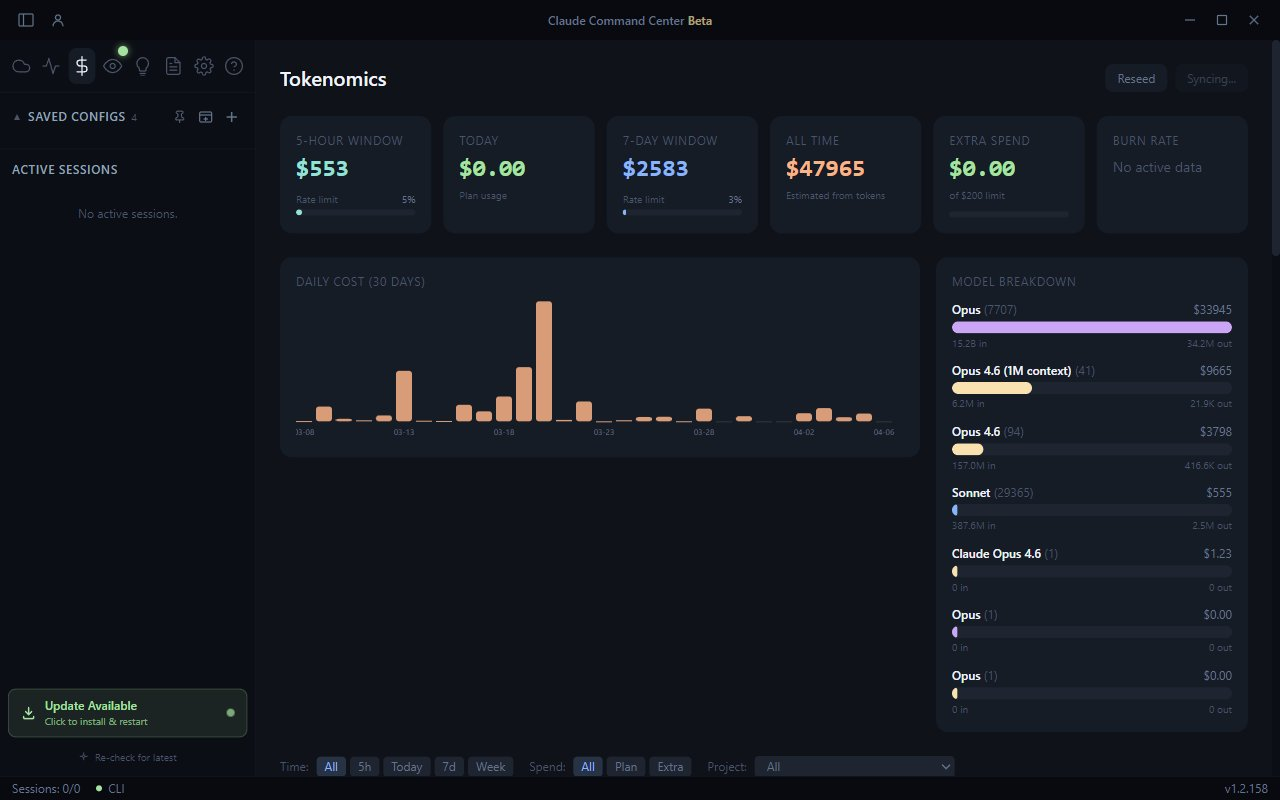
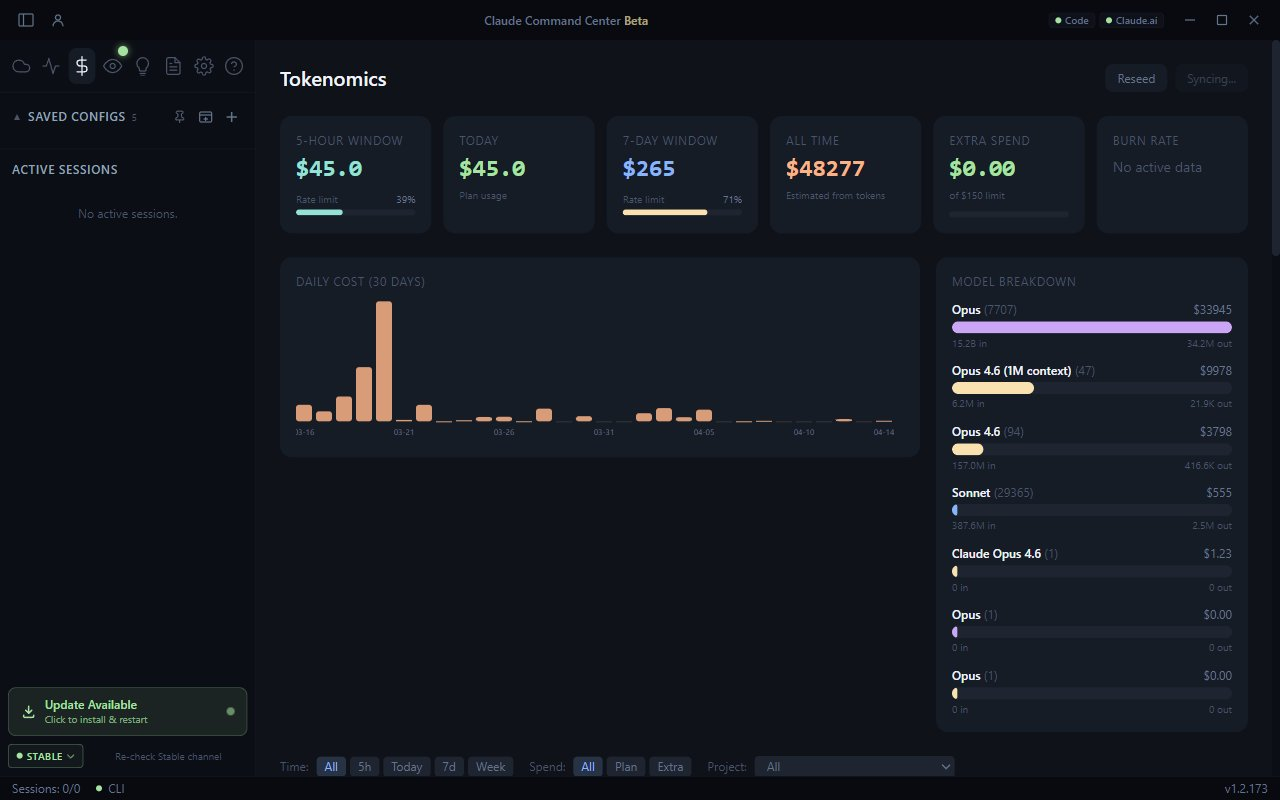
Sanitize screenshots: use demo data with no personal paths
- Screenshot capture script now uses generic paths (C:\Users\developer)
  instead of real OS username
- Seeds fake tokenomics data so real project names don't appear
- Adds command sections with targets to sample data
- Auto-copies training screenshots to docs/screenshots/
- All 7 flagged Windows screenshots retaken with clean data

diff --git a/scripts/capture-training-screenshots.ts b/scripts/capture-training-screenshots.ts
@@ -56,21 +56,30 @@ function getConfigDir(): string {
 
 // ── Sample data ──
 
+// Use sanitized paths — never expose real OS username in screenshots
 const homePath = process.platform === 'win32'
-  ? `C:\\Users\\${os.userInfo().username}\\Projects`
-  : `${os.homedir()}/Projects`
+  ? 'C:\\Users\\developer\\Projects'
+  : '/Users/developer/Projects'
 
 const SAMPLE_CONFIGS = [
   { id: 'demo-webapp', label: 'Web App', workingDirectory: path.join(homePath, 'web-app'), model: '', color: '#89B4FA', sessionType: 'local' },
   { id: 'demo-api', label: 'API Server', workingDirectory: path.join(homePath, 'api-server'), model: '', color: '#A6E3A1', sessionType: 'local' },
   { id: 'demo-mobile', label: 'Mobile App', workingDirectory: path.join(homePath, 'mobile'), model: '', color: '#F9E2AF', sessionType: 'local' },
   { id: 'demo-infra', label: 'Infrastructure', workingDirectory: path.join(homePath, 'infra'), model: '', color: '#CBA6F7', sessionType: 'local' },
+  { id: 'demo-gpu', label: 'GPU Server', workingDirectory: '/home/developer/ml-pipeline', model: '', color: '#F38BA8', sessionType: 'ssh', sshConfig: { host: '10.0.1.50', port: 22, username: 'developer', remotePath: '/home/developer/ml-pipeline' } },
 ]
 
 const SAMPLE_COMMANDS = [
-  { id: 'demo-cmd-review', label: 'Code Review', prompt: 'Review the recent changes', scope: 'global', color: '#89B4FA', defaultArgs: ['--focus security'] },
-  { id: 'demo-cmd-test', label: 'Run Tests', prompt: 'Run all tests and fix failures', scope: 'global', color: '#A6E3A1', defaultArgs: [] },
+  { id: 'demo-cmd-review', label: 'Code Review', prompt: 'Review the recent changes', scope: 'global', color: '#89B4FA', defaultArgs: ['--focus security'], sectionId: 'demo-section-dev' },
+  { id: 'demo-cmd-test', label: 'Run Tests', prompt: 'Run all tests and fix failures', scope: 'global', color: '#A6E3A1', defaultArgs: [], sectionId: 'demo-section-dev' },
   { id: 'demo-cmd-docs', label: 'Update Docs', prompt: 'Update documentation', scope: 'global', color: '#F9E2AF', defaultArgs: [] },
+  { id: 'demo-cmd-deploy', label: 'Deploy Staging', prompt: 'Deploy to staging environment', scope: 'global', color: '#F38BA8', target: 'partner', sectionId: 'demo-section-ops' },
+  { id: 'demo-cmd-git', label: 'Git Status', prompt: 'git status', scope: 'global', color: '#CBA6F7', target: 'partner' },
+]
+
+const SAMPLE_SECTIONS = [
+  { id: 'demo-section-dev', name: 'Development', scope: 'global', target: 'claude', color: '#89B4FA' },
+  { id: 'demo-section-ops', name: 'Operations', scope: 'global', target: 'partner', color: '#F38BA8' },
 ]
 
 const SAMPLE_CLOUD_AGENTS = [
@@ -126,13 +135,35 @@ function seedSampleData(): BackupInfo {
   console.log(`[capture] Config dir: ${configDir}`)
 
   const backedUpFiles: string[] = []
+  // Generate realistic tokenomics data with sanitized project names
+  const now = Date.now()
+  const day = 24 * 60 * 60 * 1000
+  const sampleTokenomics = {
+    sessions: [
+      { sessionId: 'demo-s1', projectDir: 'web-app', model: 'claude-sonnet-4-5-20250514', firstTimestamp: now - 2 * 3600000, lastTimestamp: now - 1800000, totalInputTokens: 45000, totalOutputTokens: 18000, cacheReadTokens: 12000, cacheWriteTokens: 8000, totalCostUsd: 0.42, durationMs: 5400000 },
+      { sessionId: 'demo-s2', projectDir: 'api-server', model: 'claude-sonnet-4-5-20250514', firstTimestamp: now - 8 * 3600000, lastTimestamp: now - 6 * 3600000, totalInputTokens: 82000, totalOutputTokens: 35000, cacheReadTokens: 25000, cacheWriteTokens: 15000, totalCostUsd: 0.89, durationMs: 7200000 },
+      { sessionId: 'demo-s3', projectDir: 'web-app', model: 'claude-opus-4-5-20250514', firstTimestamp: now - day - 3600000, lastTimestamp: now - day, totalInputTokens: 120000, totalOutputTokens: 55000, cacheReadTokens: 40000, cacheWriteTokens: 20000, totalCostUsd: 3.15, durationMs: 3600000 },
+    ],
+    daily: [
+      { date: new Date(now).toISOString().slice(0, 10), totalCostUsd: 1.31, totalInputTokens: 127000, totalOutputTokens: 53000, sessionCount: 2 },
+      { date: new Date(now - day).toISOString().slice(0, 10), totalCostUsd: 3.15, totalInputTokens: 120000, totalOutputTokens: 55000, sessionCount: 1 },
+      { date: new Date(now - 2 * day).toISOString().slice(0, 10), totalCostUsd: 2.47, totalInputTokens: 95000, totalOutputTokens: 42000, sessionCount: 3 },
+      { date: new Date(now - 3 * day).toISOString().slice(0, 10), totalCostUsd: 1.89, totalInputTokens: 78000, totalOutputTokens: 31000, sessionCount: 2 },
+      { date: new Date(now - 4 * day).toISOString().slice(0, 10), totalCostUsd: 4.22, totalInputTokens: 165000, totalOutputTokens: 72000, sessionCount: 4 },
+      { date: new Date(now - 5 * day).toISOString().slice(0, 10), totalCostUsd: 0.95, totalInputTokens: 45000, totalOutputTokens: 18000, sessionCount: 1 },
+      { date: new Date(now - 6 * day).toISOString().slice(0, 10), totalCostUsd: 2.78, totalInputTokens: 110000, totalOutputTokens: 48000, sessionCount: 3 },
+    ],
+    lastSeeded: now,
+  }
+
   const fileMap: Record<string, unknown> = {
     'configs.json': SAMPLE_CONFIGS,
     'commands.json': SAMPLE_COMMANDS,
-    'command-sections.json': [{ id: 'demo-section', name: 'Development' }],
+    'command-sections.json': SAMPLE_SECTIONS,
     'settings.json': { localMachineName: process.platform === 'darwin' ? 'Mac Mini' : 'Dev Workstation', terminalFontSize: 14, updateChannel: 'stable' },
     'app-meta.json': { setupVersion: '99.99.99', lastTrainingVersion: '99.99.99', lastWhatsNewVersion: '99.99.99', lastSeenVersion: '99.99.99' },
     'cloud-agents.json': SAMPLE_CLOUD_AGENTS,
+    'tokenomics.json': sampleTokenomics,
   }
 
   for (const [filename, data] of Object.entries(fileMap)) {
@@ -163,7 +194,7 @@ function seedSampleData(): BackupInfo {
 
 function cleanupSampleData(info: BackupInfo): void {
   console.log('[capture] Cleaning up...')
-  const files = ['configs.json', 'commands.json', 'command-sections.json', 'settings.json', 'app-meta.json', 'cloud-agents.json']
+  const files = ['configs.json', 'commands.json', 'command-sections.json', 'settings.json', 'app-meta.json', 'cloud-agents.json', 'tokenomics.json']
   for (const filename of files) {
     const filePath = path.join(info.configDir, filename)
     const backupPath = filePath + BACKUP_SUFFIX
@@ -225,10 +256,33 @@ async function dismissModals(window: any): Promise<void> {
   for (let i = 0; i < 4; i++) { await window.keyboard.press('Escape'); await window.waitForTimeout(400) }
 }
 
+const DOCS_SCREENSHOT_DIR = path.join(__dirname, '..', 'docs', 'screenshots')
+
+// Map from training filenames to docs filenames (for README screenshots)
+const DOCS_COPY_MAP: Record<string, string> = {
+  'step-session-options.jpg': 'session-config.jpg',
+  'step-tokenomics.jpg': 'tokenomics.jpg',
+  'step-memory.jpg': 'memory.jpg',
+  'step-agent-hub.jpg': 'agent-hub.jpg',
+  'step-vision.jpg': 'vision.jpg',
+  'step-security.jpg': 'settings.jpg',
+  'step-tips.jpg': 'shortcuts.jpg',
+}
+
 async function capture(window: any, filename: string, description: string): Promise<void> {
   const platformFilename = PLATFORM_SUFFIX ? filename.replace('.jpg', `${PLATFORM_SUFFIX}.jpg`) : filename
-  await window.screenshot({ path: path.join(SCREENSHOT_DIR, platformFilename), type: 'jpeg', quality: JPEG_QUALITY })
+  const trainingPath = path.join(SCREENSHOT_DIR, platformFilename)
+  await window.screenshot({ path: trainingPath, type: 'jpeg', quality: JPEG_QUALITY })
   console.log(`[capture] Saved: ${platformFilename} (${description})`)
+
+  // Also copy to docs/screenshots/ if this file maps to a docs screenshot
+  const docsName = DOCS_COPY_MAP[filename]
+  if (docsName) {
+    const docsPlatformName = PLATFORM_SUFFIX ? docsName.replace('.jpg', `${PLATFORM_SUFFIX}.jpg`) : docsName
+    fs.mkdirSync(DOCS_SCREENSHOT_DIR, { recursive: true })
+    fs.copyFileSync(trainingPath, path.join(DOCS_SCREENSHOT_DIR, docsPlatformName))
+    console.log(`[capture]   -> docs/screenshots/${docsPlatformName}`)
+  }
 }
 
 // ── Main ──
